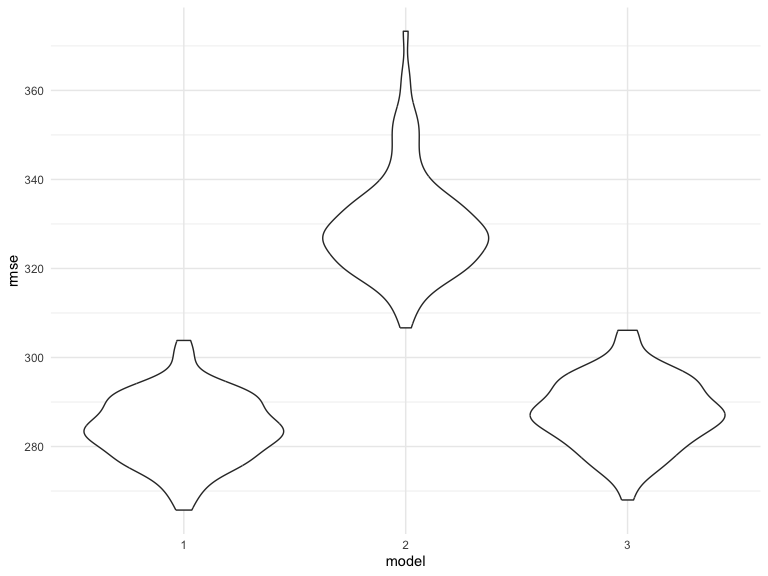
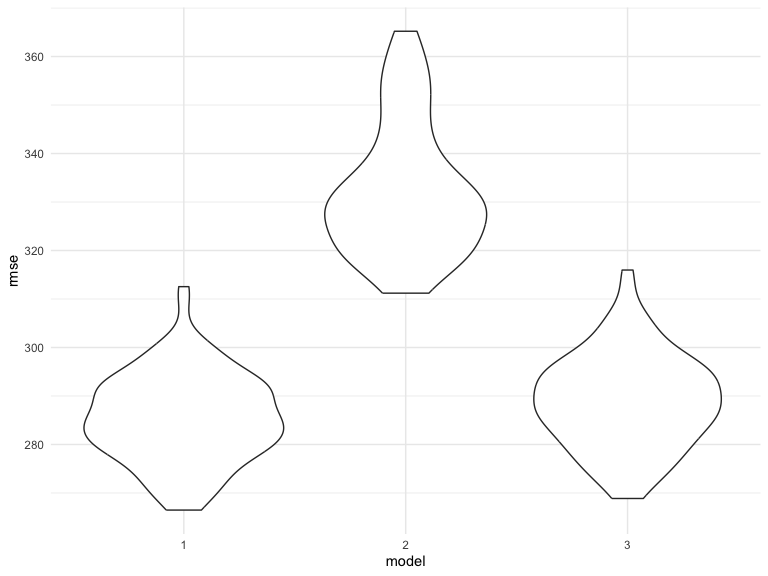
Problem 2 Quantiles summary format

diff --git a/p8105_hw6_yy3421.md b/p8105_hw6_yy3421.md
@@ -253,13 +253,13 @@ boot_results |>
     ci_upper_r = quantile(r_squared, 0.975),
     ci_lower_beta01 = quantile(logbeta01, 0.025),
     ci_upper_beta01 = quantile(logbeta01, 0.975)
-  )
+  ) |> 
+  knitr::kable(digits = 3)
 ```
 
-    ## # A tibble: 1 × 4
-    ##   ci_lower_r ci_upper_r ci_lower_beta01 ci_upper_beta01
-    ##        <dbl>      <dbl>           <dbl>           <dbl>
-    ## 1      0.890      0.940            2.06            2.14
+| ci_lower_r | ci_upper_r | ci_lower_beta01 | ci_upper_beta01 |
+|-----------:|-----------:|----------------:|----------------:|
+|      0.888 |       0.94 |           2.057 |           2.139 |
 
 Based on the quantile summary, we can observe an overall high R squared
 with its 2.5% quantile of 0.888 and 97.5% quantile of 0.940. This could
@@ -406,9 +406,9 @@ cv_df =
     rmse_3 = map2_dbl(mod_3, test, \(mod, df) rmse(model = mod, data = df)))
 ```
 
-The average value of rmse of model 1 is 284.0834647. The average value
-of rmse of model 2 is 329.7995885. The average value of rmse of model 3
-is 287.5420566. Overall, model 1 has the lowest prediction error and
+The average value of rmse of model 1 is 285.4533424. The average value
+of rmse of model 2 is 332.2872543. The average value of rmse of model 3
+is 288.9421222. Overall, model 1 has the lowest prediction error and
 model 2 has the highest prediction error. This pattern could also be
 observed from the plot below.
 
